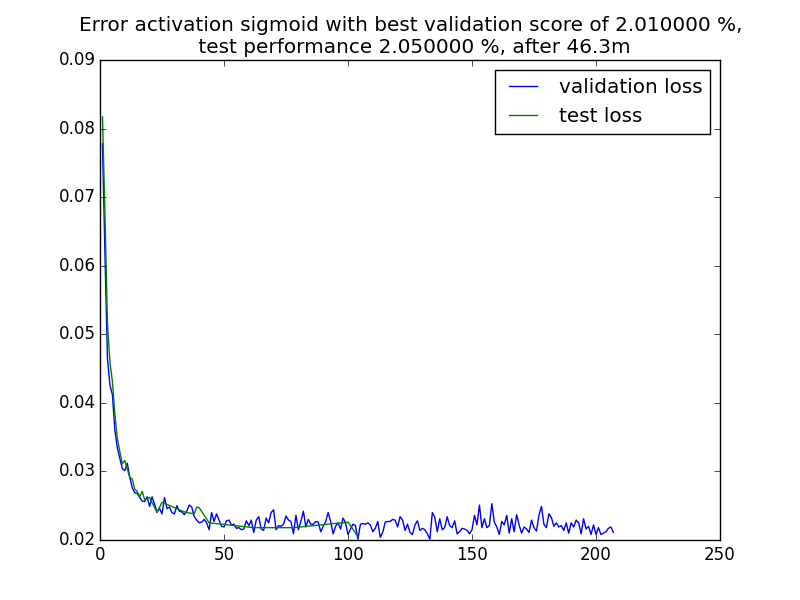
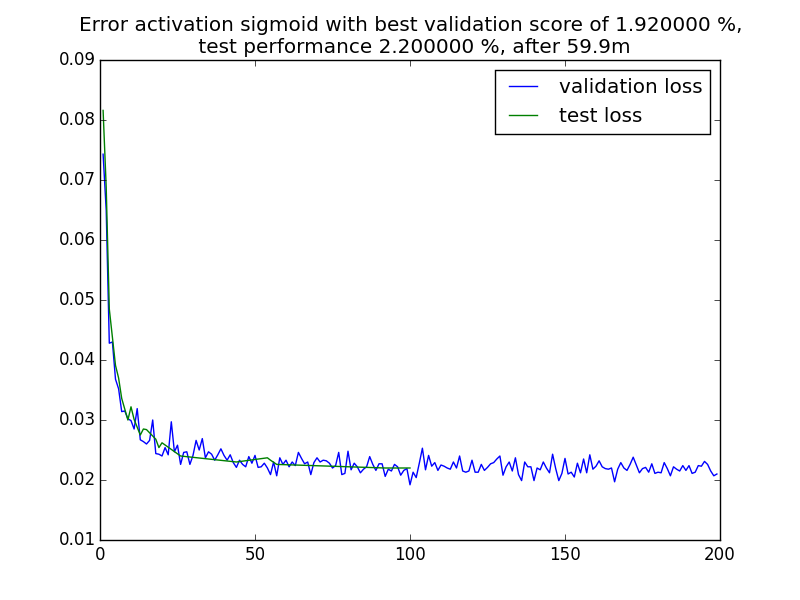
plots nn

diff --git a/nn/neural_net.py b/nn/neural_net.py
@@ -268,7 +268,7 @@ def train(learning_rate = 0.01, L1_reg = 0.00, L2_reg = 0.0001, n_epochs = 1000,
     elif activation == 'sigmoid':
         print('... using logistic sigmoid as activation function in the hidden layer')
         activation_function = T.nnet.sigmoid
-        cli.initialize.randomize_normal(flat, 0, 0.1)
+        cli.initialize.randomize_normal(flat, 0, 0.05)
     elif activation == 'relu':
         print('... using rectified linear neurons as activation function in the hidden layer')
         activation_function = T.nnet.relu
@@ -347,7 +347,7 @@ def train(learning_rate = 0.01, L1_reg = 0.00, L2_reg = 0.0001, n_epochs = 1000,
         return np.concatenate([g_W_h.flatten(), g_b_h, g_W_l.flatten(), g_b_l])
 
     if optimizer == 'gd':
-        print('... using gradient descent')
+        print('... using gradient descent aka back propagation')
         opt = cli.GradientDescent(flat, d_loss_wrt_pars, step_rate = learning_rate, momentum = .95, args=args)
     elif optimizer == 'rmsprop':
         print('... using rmsprop')
@@ -479,7 +479,7 @@ def plot(classifier):
     plt.legend()
 
     plt.title('Error activation %s with best validation score of %f %%,\n test performance %f %%, after %.1fm ' % (classifier.activation_n, best_validation_loss, best_test_loss, time_trained))
-    print('... saving to file ' + os.path.join(os.path.split(__file__)[0], classifier.activation_n + '_error.png'))
+    print('... saving to file ' + os.path.join(os.path.split(__file__)[0], 'error_' + classifier.activation_n + '_error.png'))
     plt.savefig(os.path.join(os.path.split(__file__)[0], classifier.activation_n + '_error.png'))
 
     import scipy.ndimage
@@ -494,8 +494,8 @@ def plot(classifier):
     repflds = np.asarray(repflds)
 
     image = Image.fromarray(tile_raster_images(X = repflds, img_shape = (28 * magnification, 28 * magnification), tile_shape = (15, 15), tile_spacing = (1, 1)))
-    print('... saving to file ' + os.path.join(os.path.split(__file__)[0], classifier.activation_n + '_repflds.png'))
-    image.save(os.path.join(os.path.split(__file__)[0], classifier.activation_n + '_repflds.png'))
+    print('... saving to file ' + os.path.join(os.path.split(__file__)[0], 'repflds_' + classifier.activation_n + '.png'))
+    image.save(os.path.join(os.path.split(__file__)[0], 'repfds_' + classifier.activation_n + '.png'))
 
     return classifier
 

diff --git a/README.md b/README.md
@@ -131,14 +131,21 @@ Since the logistic sigmoid can be very flat around the origin, it is important t
 
 **Problem 17:** Plot the error curves for the training, evaluation and test set for each of the activation functions evaluated in the previous problem into file error.png. That is, either provide one file with three subplots (one per activation function) and three error curves each, or provide three different files ([error_tanh.png](nn/error_tanh.png), [error_sigmoid.png](nn/error_sigmoid.png), and [error_relu.png](nn/error_relu.png)).
 
+I plotted only the validation and test loss, since omitting calculating the training loss resulted in a very significant reduction in time needed to train the model. The train loss can easily added to the plot, if required.
+
+Activation Hyperbolic Tangens:
 ![error tanh](nn/error_tanh.png)
+Activation Logistic Sigmoid:
 ![error sigmoid](nn/error_sigmoid.png)
 ![error relu](nn/error_relu.png)
 
 **Problem 18:** Visualize the receptive fields *of the hidden* layer and write them to file [repflds.png](nn/repflds_tanh.png). As in the previous problem, either provide one file with three subplots, or three distinct files([repflds_tanh.png)](nn/repflds_tanh.png), [repflds_sigmoid.png)](nn/repflds_sigmoid.png), [repflds_relu.png)](nn/repflds_relu.png)).
 
+Activation Hyperbolic Tangens:
 ![receptiva fields](nn/repflds_tanh.png)
+Activation Logistic Sigmoid:
 ![receptiva fields](nn/repflds_sigmoid.png)
+Activation Rectified Linear Neurons:
 ![receptiva fields](nn/repflds_relu.png)
 
 
